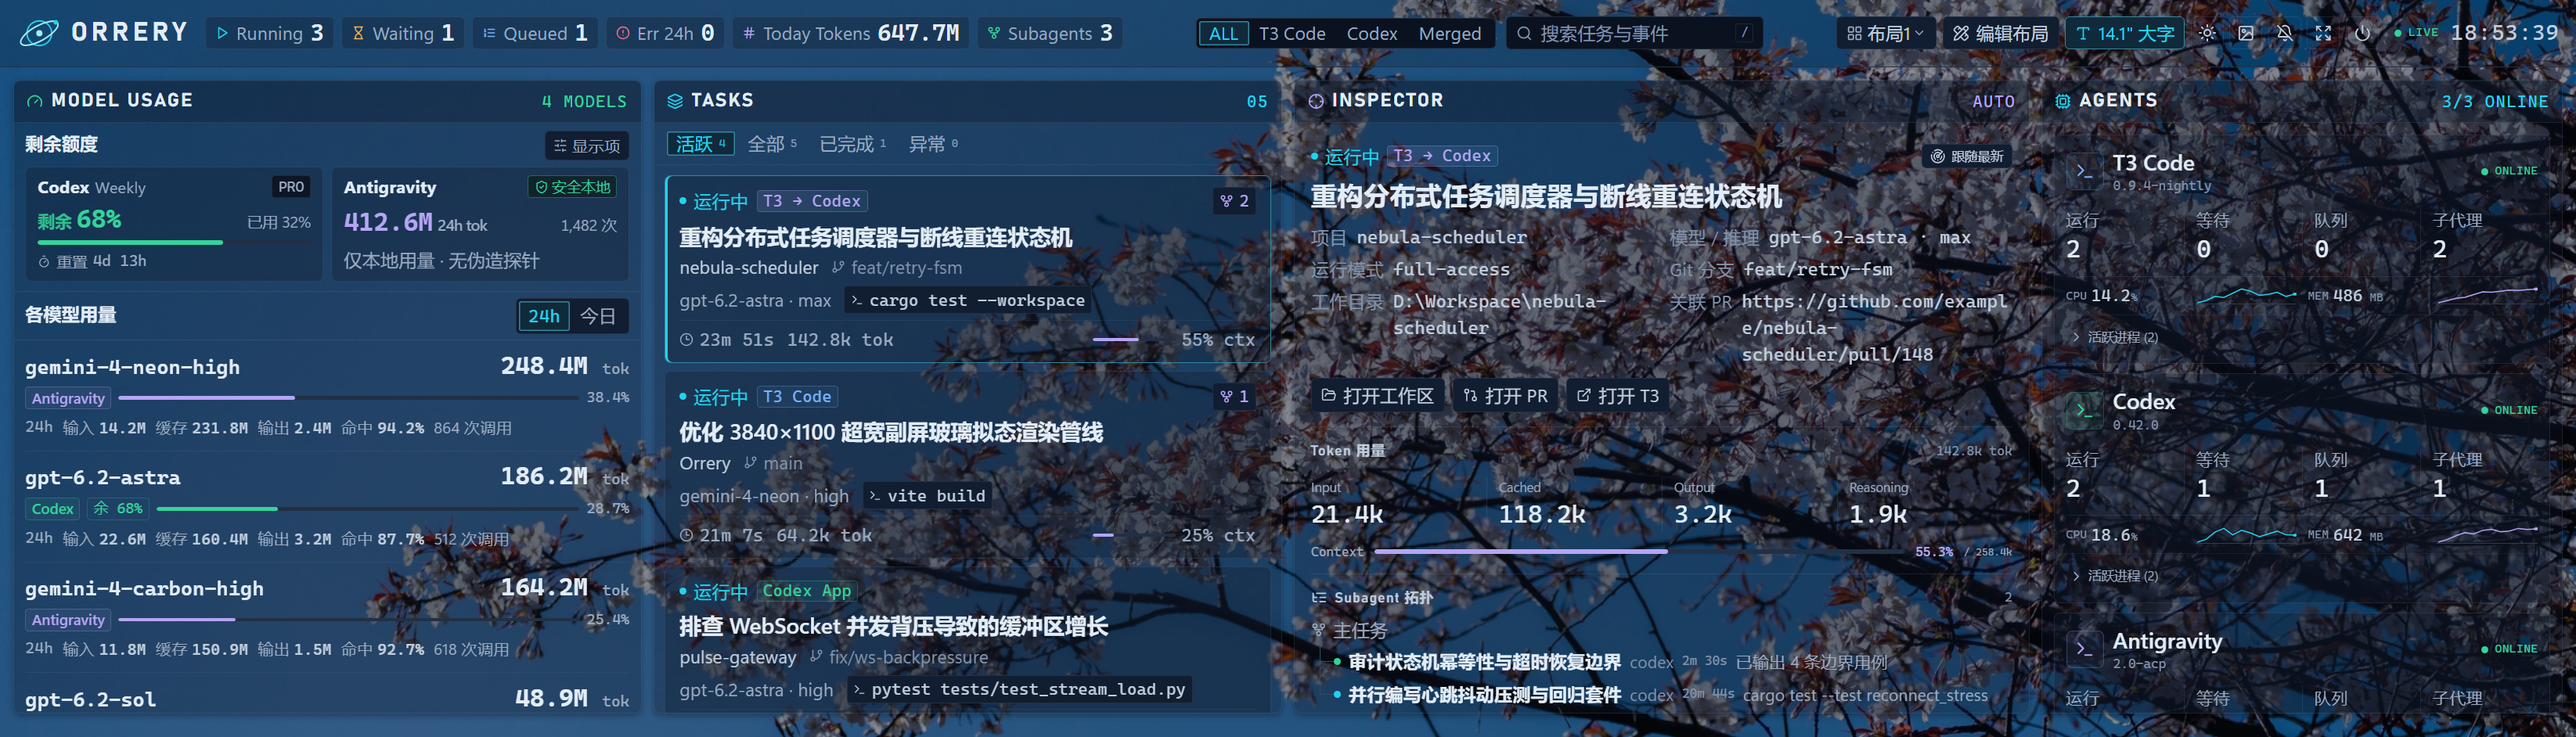
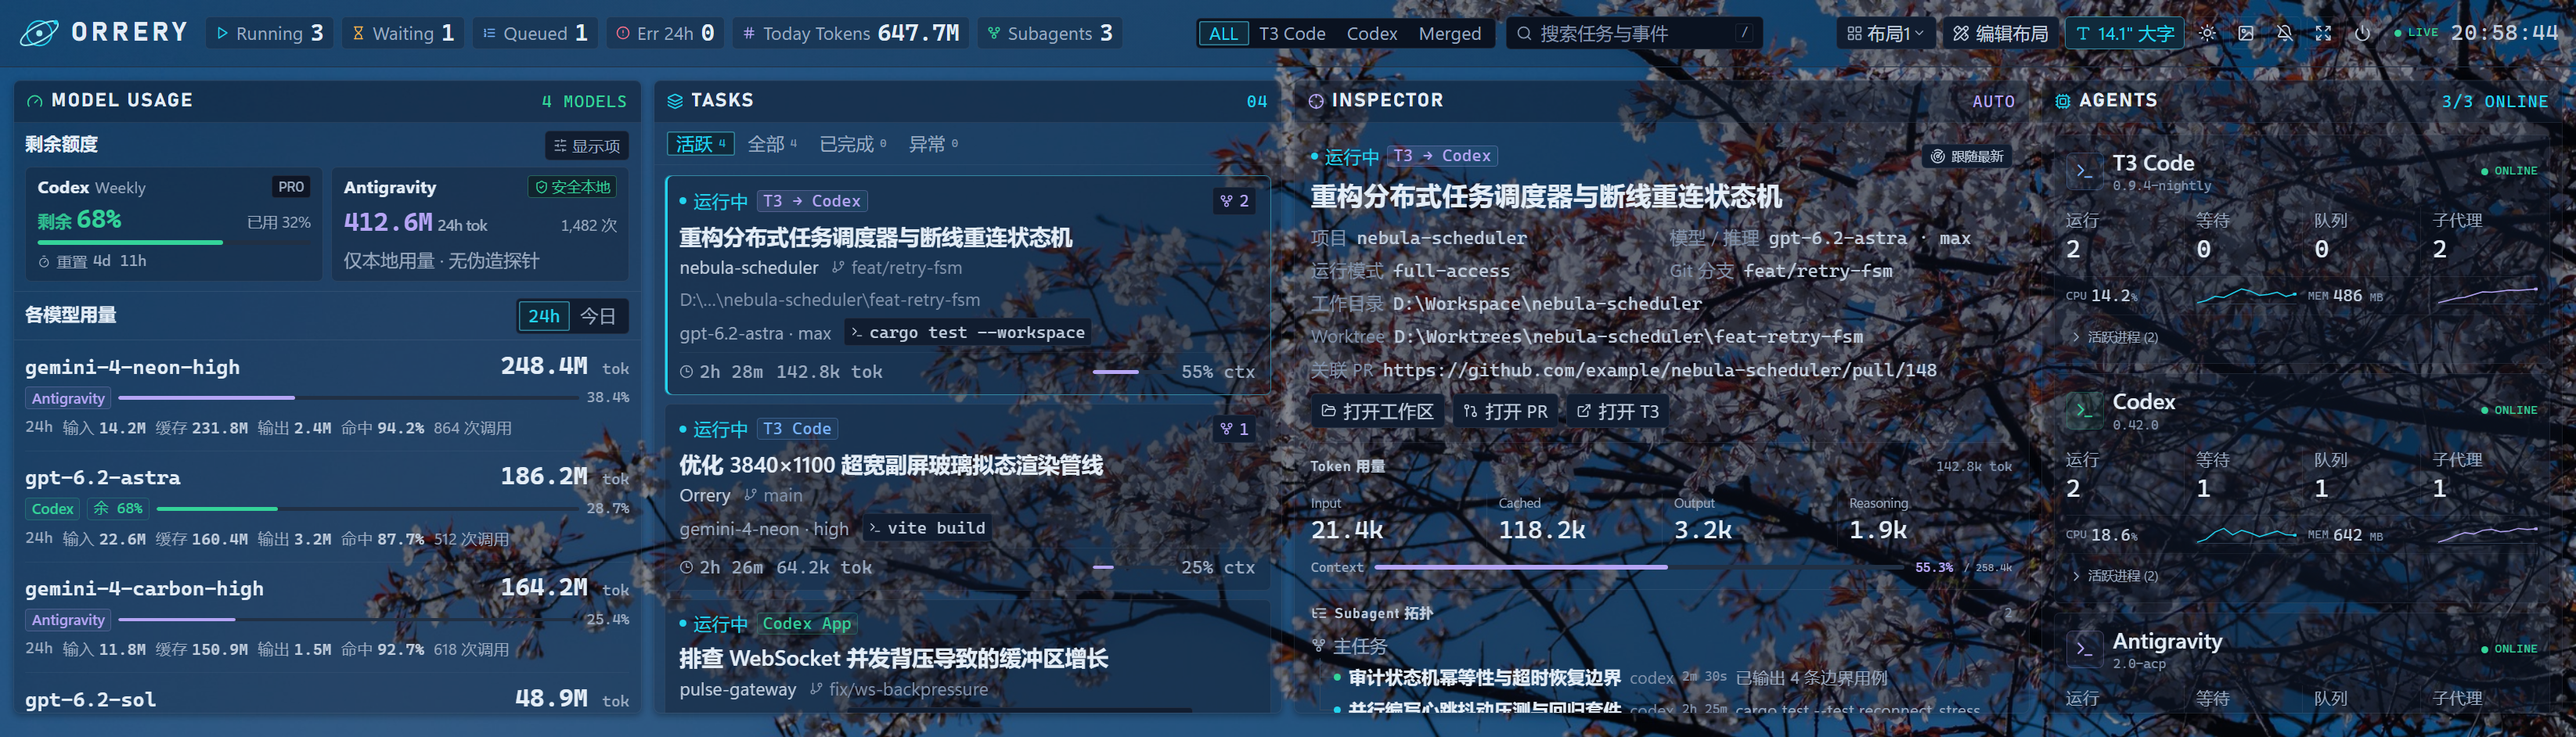
style(inspector): span cwd, worktree, and PR fields across full width with single-line ellipsis

diff --git a/packages/web/src/components/widgets/InspectorWidget.tsx b/packages/web/src/components/widgets/InspectorWidget.tsx
@@ -41,9 +41,14 @@ export function InspectorWidget({ task, pinned, onPin, onFollow, t3Url, generate
   const drift = Math.max(0, now - Date.parse(generatedAt));
   const tokens = task.tokens;
   const fields = [
-    ['项目', task.project], ['模型 / 推理', [task.model || task.provider, task.reasoningEffort].filter(Boolean).join(' · ')],
-    ['运行模式', task.runtimeMode], ['Git 分支', task.gitBranch], ['工作目录', task.cwd], ['Worktree', task.worktreePath], ['关联 PR', task.linkedPrUrl],
-  ].filter((pair): pair is [string, string] => Boolean(pair[1]));
+    ['项目', task.project, false],
+    ['模型 / 推理', [task.model || task.provider, task.reasoningEffort].filter(Boolean).join(' · '), false],
+    ['运行模式', task.runtimeMode, false],
+    ['Git 分支', task.gitBranch, false],
+    ['工作目录', task.cwd, true],
+    ['Worktree', task.worktreePath, true],
+    ['关联 PR', task.linkedPrUrl, true],
+  ].filter((entry): entry is [string, string, boolean] => Boolean(entry[1]));
   const workspace = task.cwd || task.worktreePath;
   return <div className="widget-scroll padded inspector">
     <div className="between inspect-meta"><div className="inline-group"><StatusBadge status={task.status} /><SourceBadge source={task.source} /></div>
@@ -51,7 +56,7 @@ export function InspectorWidget({ task, pinned, onPin, onFollow, t3Url, generate
         {pinned ? <Pin size={12} /> : <Radar size={13} />}{pinned ? '已固定' : '跟随最新'}</button></div>
     <h3 className="inspect-title">{task.title}</h3>
     {task.errorMessage && <p className="error-snippet">{task.errorMessage}</p>}
-    <dl className="inspector-fields">{fields.map(([key, value]) => <div key={key}><dt>{key}</dt><dd title={value}>{value}</dd></div>)}</dl>
+    <dl className="inspector-fields">{fields.map(([key, value, wide]) => <div key={key} className={wide ? 'field-wide' : undefined}><dt>{key}</dt><dd title={value}>{value}</dd></div>)}</dl>
     <div className="inspect-actions">
       {workspace && <OpenAction action="open-folder" target={workspace} icon={FolderOpen}>打开工作区</OpenAction>}
       {task.linkedPrUrl && <OpenAction action="open-url" target={task.linkedPrUrl} icon={GitPullRequest}>打开 PR</OpenAction>}

diff --git a/packages/web/src/index.css b/packages/web/src/index.css
@@ -403,10 +403,18 @@ h1, h2, h3, h4, p, figure, ol, ul, dl, dt, dd { margin: 0; }
 .inspect-title { font-size: 18px; line-height: 1.4; font-weight: 600; margin: 6px 0 9px; overflow-wrap: anywhere; }
 .follow-button { display: inline-flex; align-items: center; gap: 5px; padding: 2px 7px; font-size: 11px; }
 .follow-button.pinned { color: var(--violet-ink); border-color: color-mix(in srgb, var(--violet) 40%, var(--line-strong)); }
-.inspector-fields { display: grid; grid-template-columns: repeat(auto-fit, minmax(min(100%, 225px), 1fr)); gap: 5px 14px; }
-.inspector-fields > div { display: flex; gap: 8px; min-width: 0; }
-.inspector-fields dt { font-size: 12px; color: var(--dim); flex: none; }
-.inspector-fields dd { font-size: 12px; color: var(--secondary); overflow-wrap: anywhere; }
+.inspector-fields { display: grid; grid-template-columns: repeat(auto-fit, minmax(min(100%, 200px), 1fr)); gap: 5px 14px; }
+.inspector-fields > div { display: flex; align-items: baseline; gap: 8px; min-width: 0; }
+.inspector-fields dt { font-size: 12px; color: var(--dim); flex: none; white-space: nowrap; }
+.inspector-fields dd { font-size: 12px; color: var(--secondary); min-width: 0; overflow-wrap: anywhere; }
+.inspector-fields > div.field-wide { grid-column: 1 / -1; }
+.inspector-fields > div.field-wide dd {
+  flex: 1 1 auto;
+  white-space: nowrap;
+  overflow: hidden;
+  text-overflow: ellipsis;
+  overflow-wrap: normal;
+}
 .inspect-actions { margin-top: 9px; }
 .token-breakdown { padding: 7px 0; }
 .context-line { display: flex; align-items: center; gap: 9px; font: 11px var(--mono); color: var(--muted); margin-top: 4px; }
